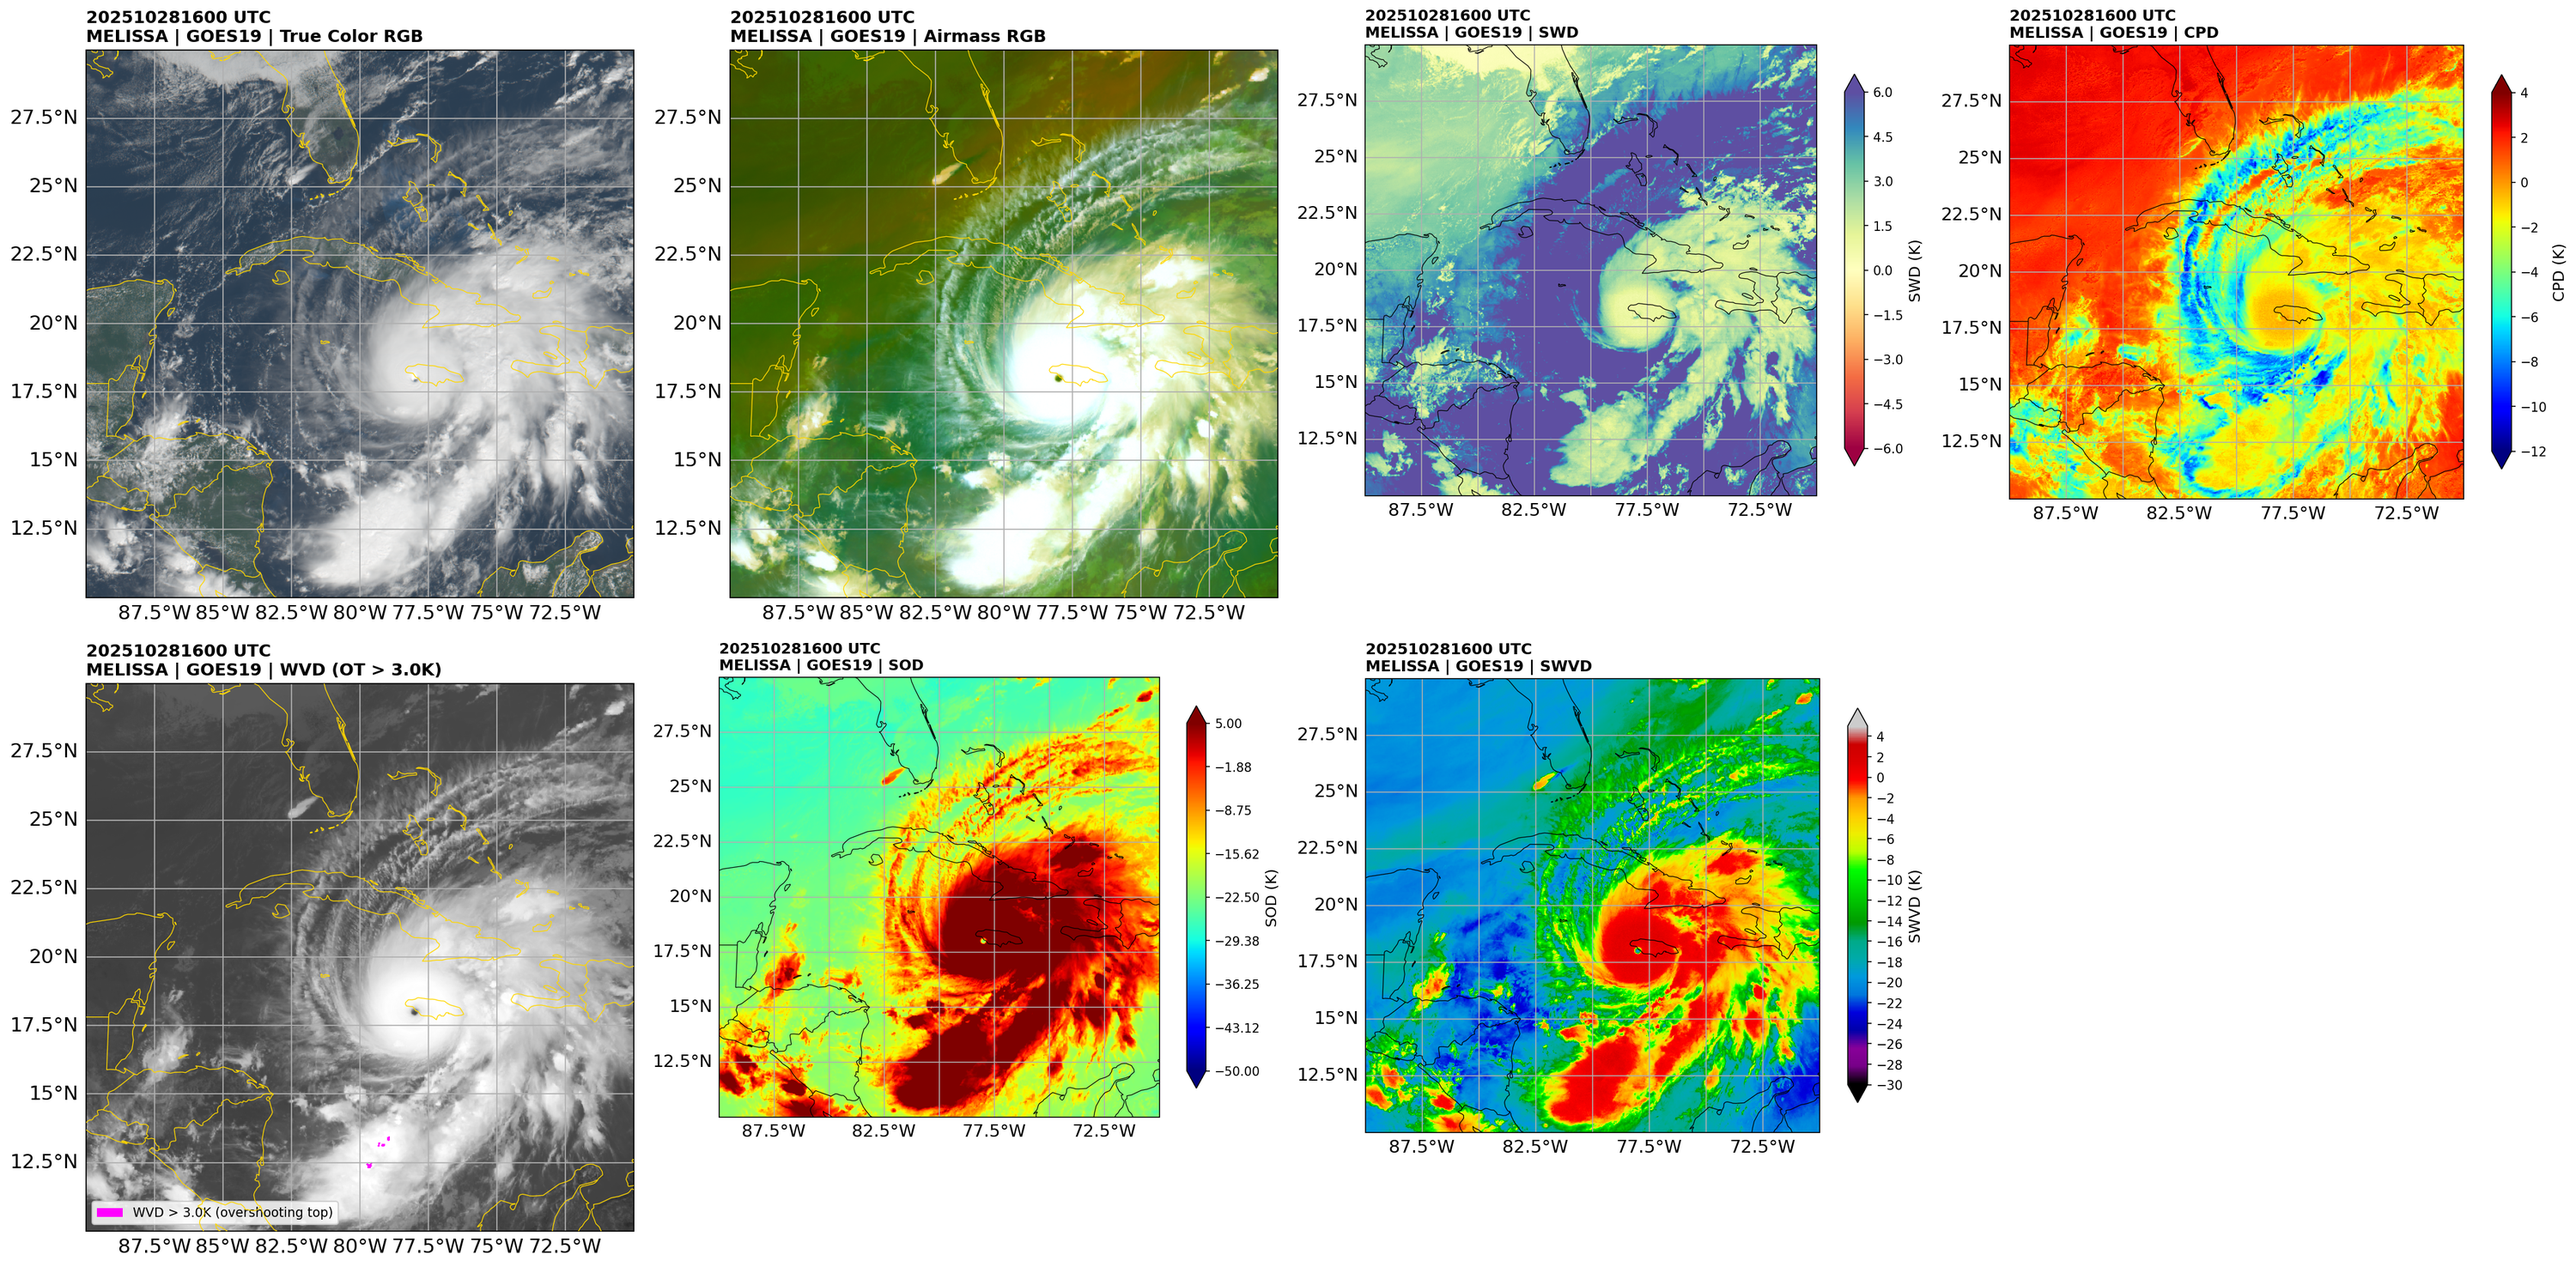
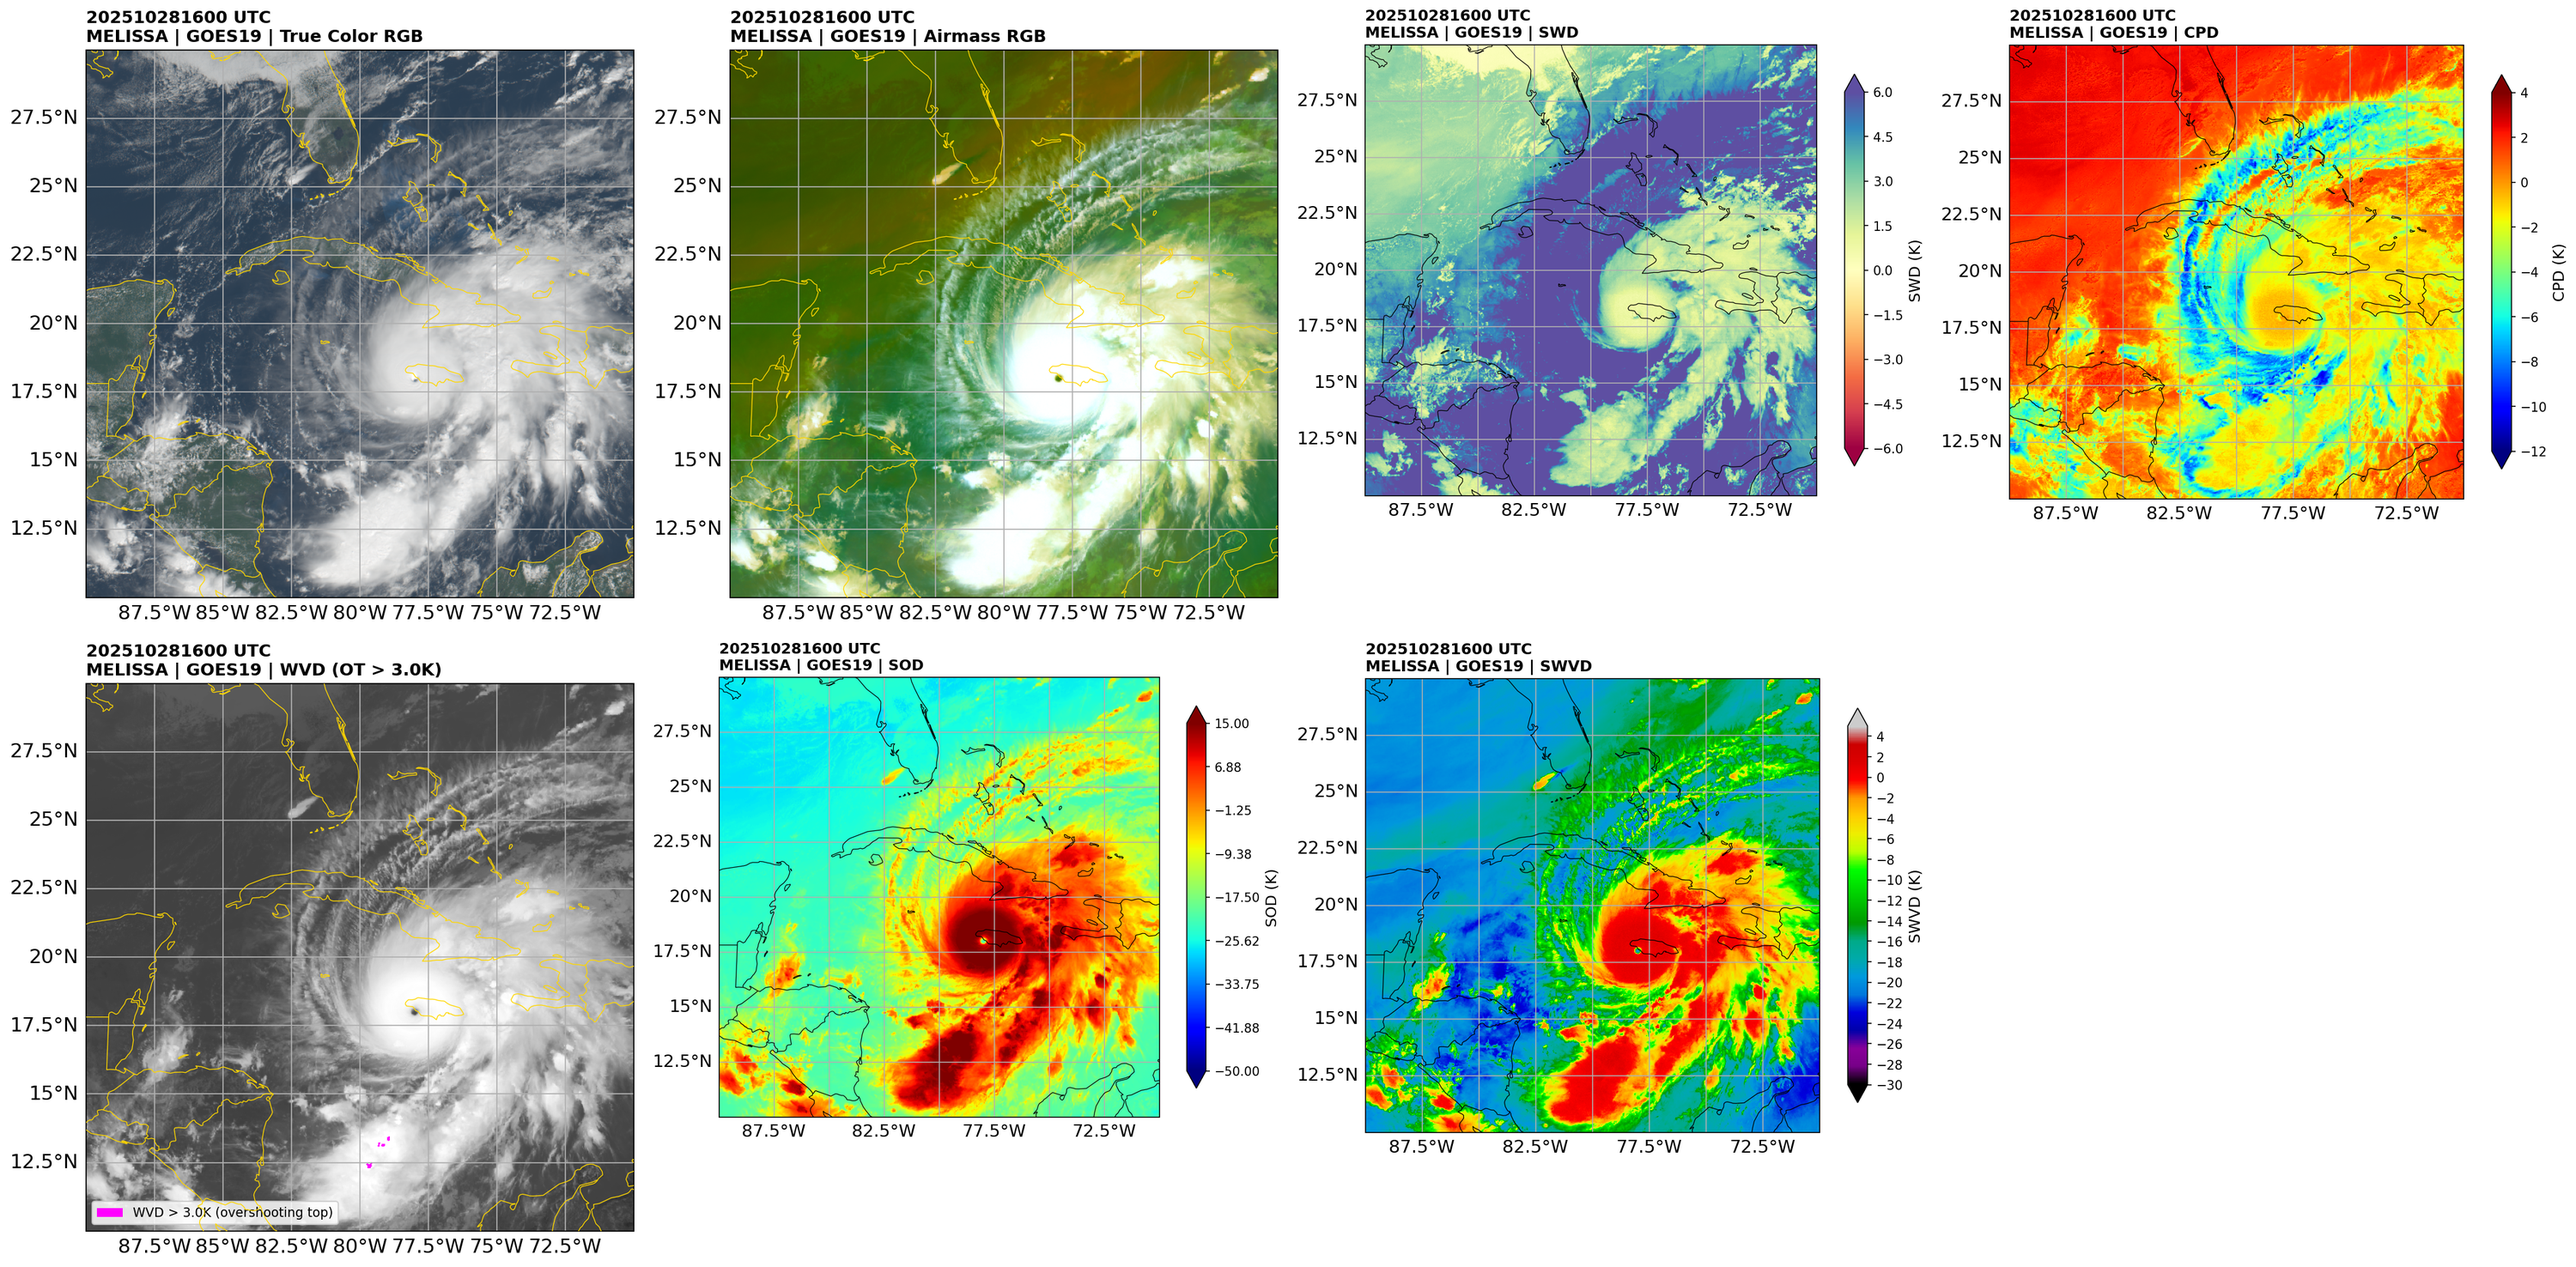
Ajusta vmax do SOD para 15 (era 5) - reduz saturação do vermelho

Changed region(s): [[0.279, 0.5298, 0.465, 0.9038]]

diff --git a/produto_plot.py b/produto_plot.py
@@ -97,7 +97,7 @@ def get_colormap(canal, usar_noaa=False):
     elif canal == 'wvd':
         return cmap_wvd, -2.5, 2.5, "WVD (K)"
     elif canal == 'sod':
-        return 'jet', -50, 5, "SOD (K)"
+        return 'jet', -50, 15, "SOD (K)"
     elif canal == 'swvd':
         return 'nipy_spectral', -30, 5, "SWVD (K)"
     else:
